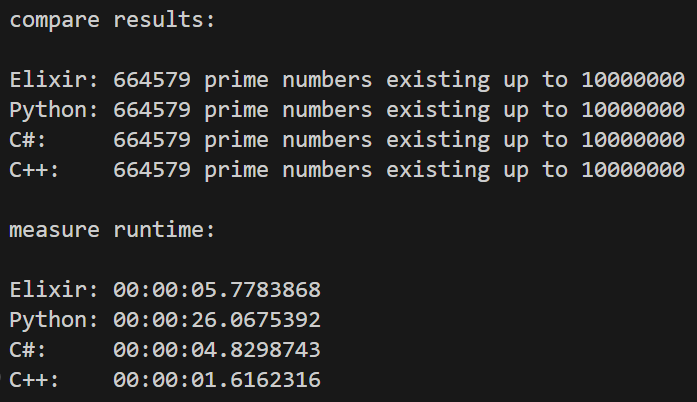
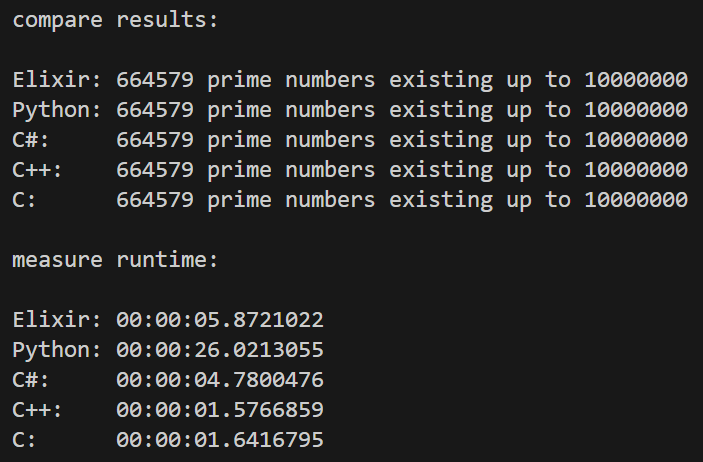
add c implementation

diff --git a/c/prime_counter.c b/c/prime_counter.c
@@ -1,0 +1,71 @@
+#include <windows.h>
+#include <stdio.h>
+#include <stdlib.h>
+#include <math.h>
+#include <Winbase.h>
+#include <pthread.h>
+
+typedef struct thread_data 
+{
+   pthread_t id;
+   int start_value;
+   int end_value;
+   int increment;
+   int prime_counter;
+} thread_data;
+
+int check_prime(int test_value)
+{
+    for (int divider = 2; divider <= ceil(sqrt(test_value)); divider++)
+        if (test_value % divider == 0)
+            return 0;
+
+    return 1;
+}
+
+void* get_prime_count_block(void* arg)
+{
+    thread_data* data = (thread_data*)arg;
+    data->prime_counter = 0;
+
+    for (int value = data->start_value; value <= data->end_value; value += data->increment)
+        if (check_prime(value))
+            data->prime_counter++;
+
+    return 0;
+}
+
+int get_prime_count(int max_value)
+{
+    const int number_of_blocks = GetActiveProcessorCount(ALL_PROCESSOR_GROUPS) * 10;
+    
+    thread_data* data = calloc(number_of_blocks, sizeof(thread_data));
+    for (int thread_index = 0; thread_index < number_of_blocks; thread_index++)
+    {
+        data[thread_index].start_value = thread_index + 3;
+        data[thread_index].end_value = max_value;
+        data[thread_index].increment = number_of_blocks;
+        
+        pthread_create(&data[thread_index].id, NULL, get_prime_count_block, (void *)&data[thread_index]);
+        thread_index++;
+    }
+
+    int prime_counter = 1;
+    for (int thread_index = 0; thread_index < number_of_blocks; thread_index++)
+    {
+        pthread_join(data[thread_index].id, NULL);
+        prime_counter += data[thread_index].prime_counter;
+    }
+
+    return prime_counter;
+}
+
+int main(int argc, char* argv[])
+{
+    int max_value = atoi(argv[1]);
+
+    int prime_count = get_prime_count(max_value);
+    printf("C:      %i prime numbers existing up to %i", prime_count, max_value);
+
+    return 0;
+}

diff --git a/cpp/prime_counter.cpp b/cpp/prime_counter.cpp
@@ -11,7 +11,7 @@ class PrimeCounter
 {
     public: static bool check_prime(int test_value)
     {
-        for (auto divider = 2; divider <= sqrt(test_value) + 1; divider++)
+        for (auto divider = 2; divider <= ceil(sqrt(test_value)); divider++)
             if (test_value % divider == 0)
                 return false;
 

diff --git a/readme.md b/readme.md
@@ -13,6 +13,7 @@ A console program takes the maximum number as an argument and prints how many pr
 - Python
 - C#
 - C++
+- C
 
 ## Comparison
 A powershell script compares the runtime of the programs.
